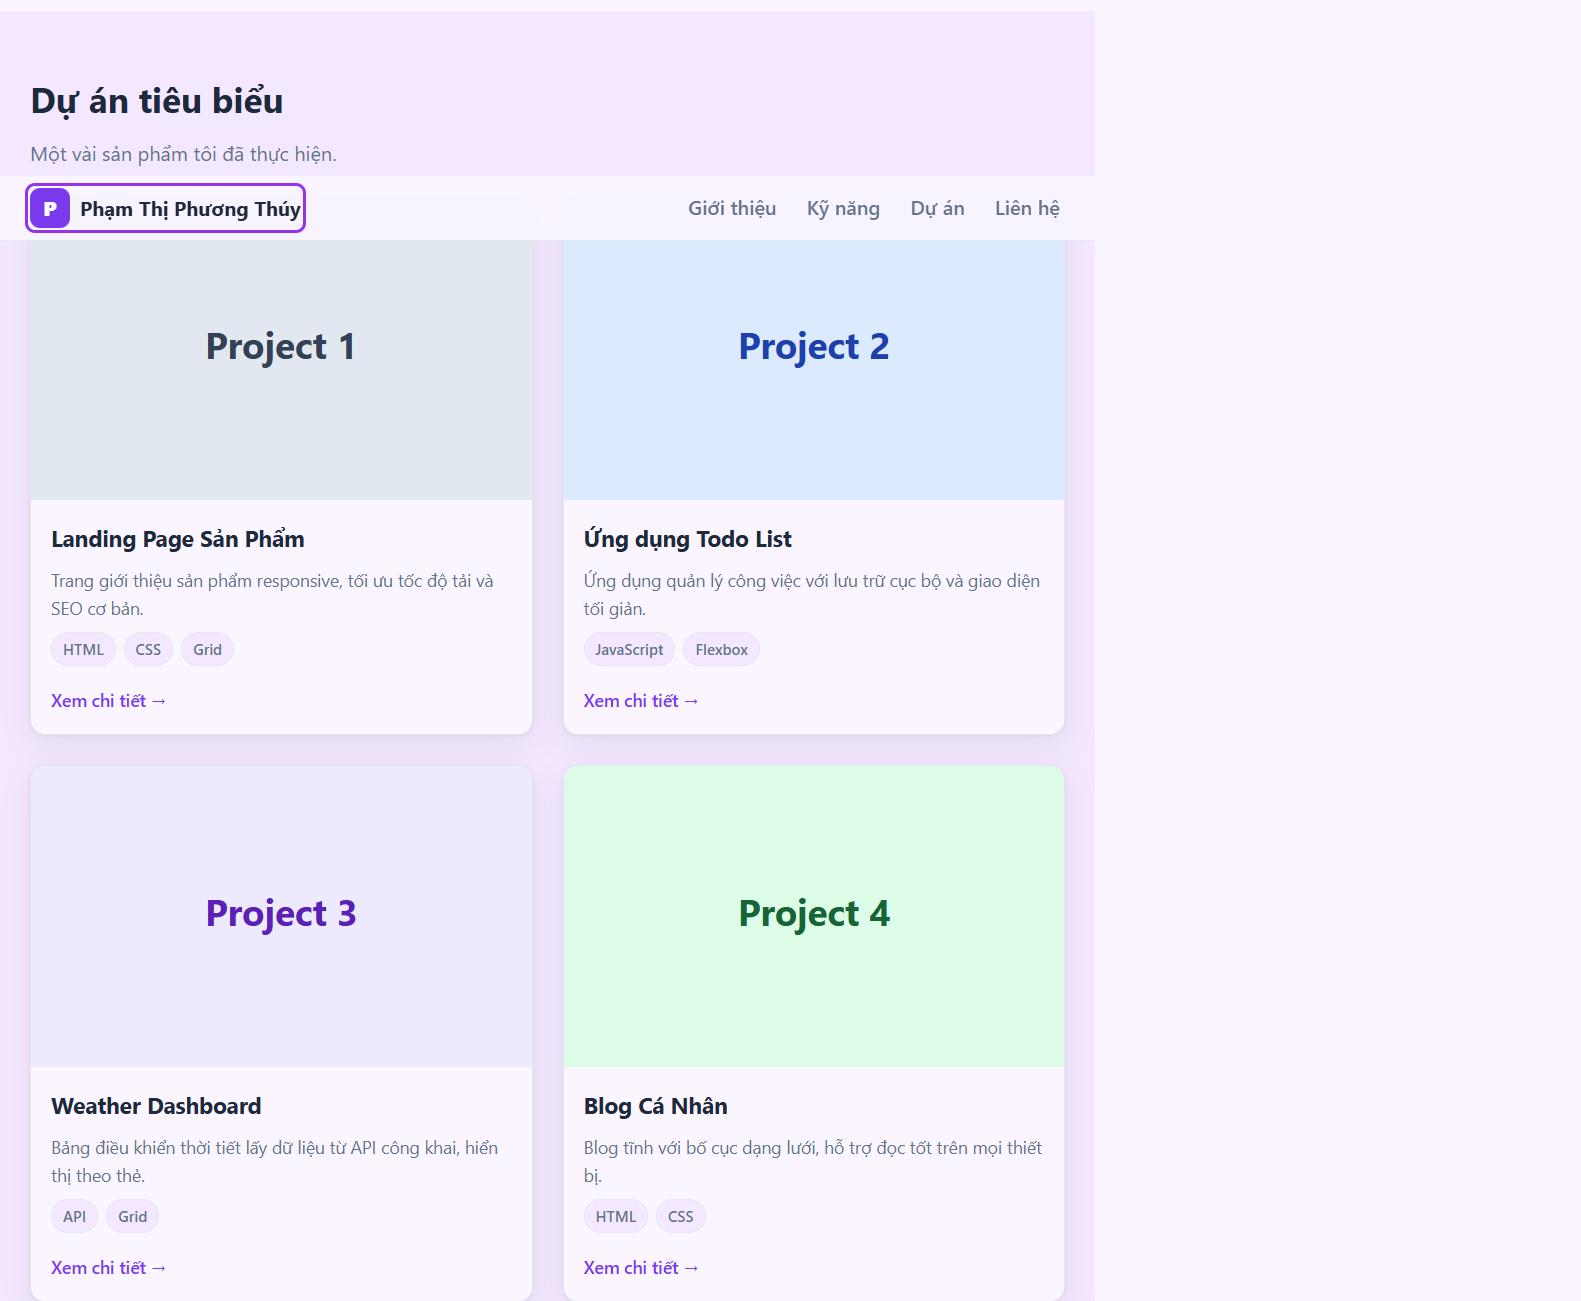
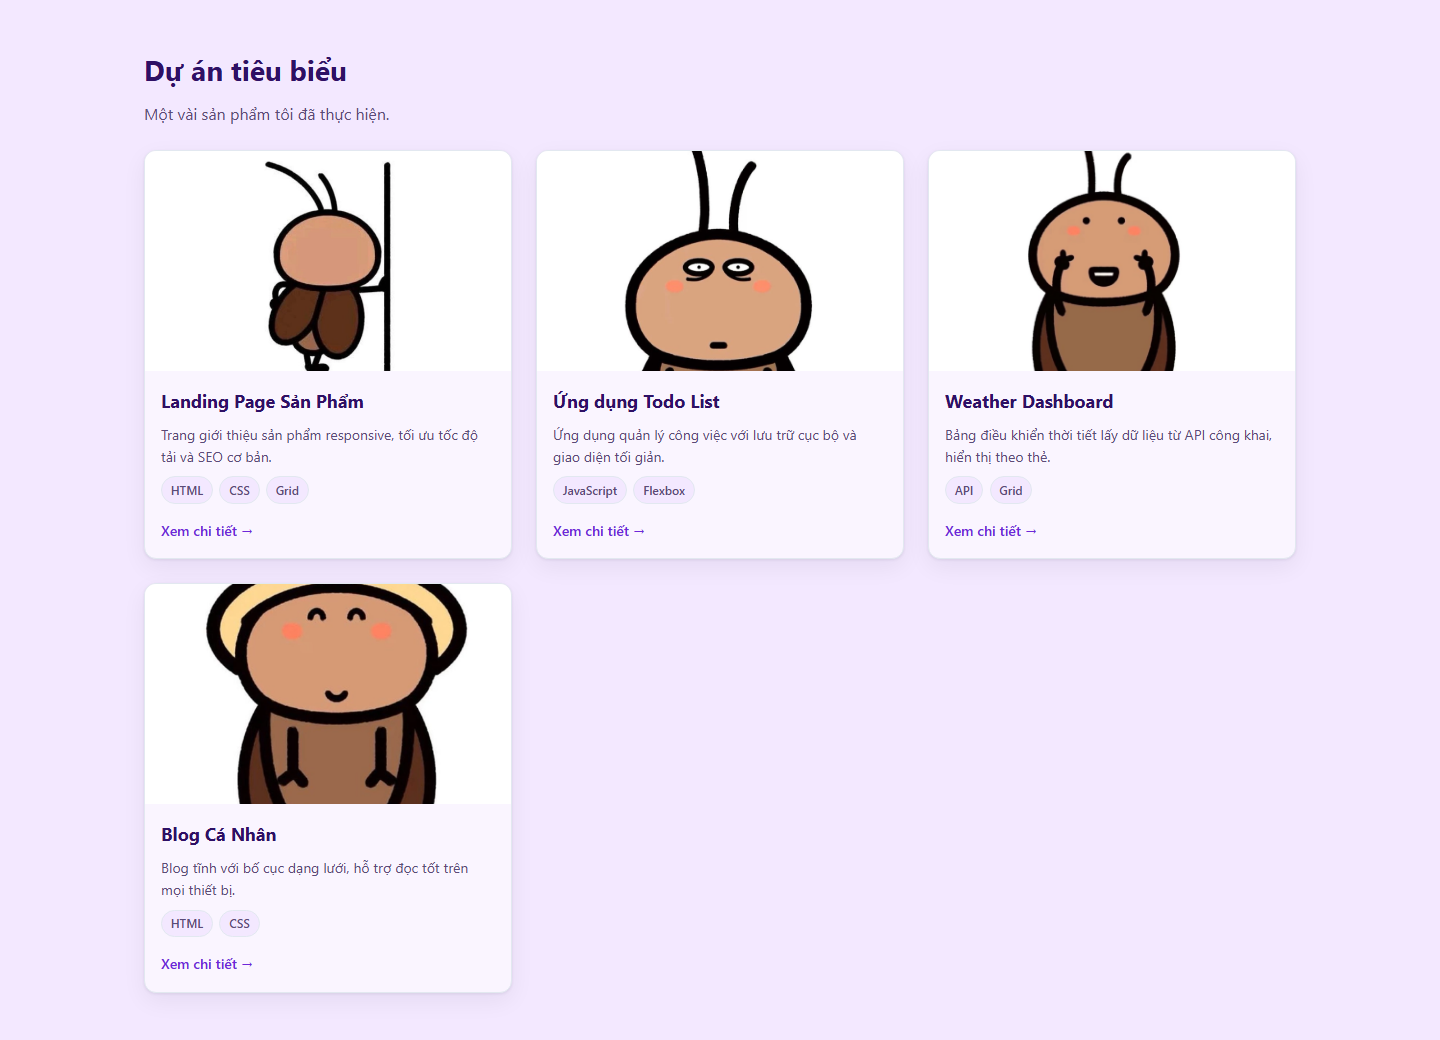
Update portfolio text colors and screenshots

diff --git a/index.html b/index.html
@@ -72,6 +72,22 @@
       </div>
     </section>
 
+      </main>
+
+      <!-- ========================================================== -->
+      <!-- FOOTER                                                      -->
+      <!-- ========================================================== -->
+      <footer class="site-footer">
+        <div class="container footer-inner">
+          <p>© 2026 Phạm Thị Phương Thúy. Thiết kế &amp; xây dựng bằng HTML5 + CSS3.</p>
+          <a href="#top" class="to-top">↑ Lên đầu trang</a>
+        </div>
+      </footer>
+
+    </body>
+
+    </html>
+
     <!-- ----- SECTION: Kỹ năng ----- -->
     <section id="skills" class="section">
       <div class="container">
@@ -171,32 +187,81 @@
         </div><!-- /.project-grid -->
       </div>
     </section>
+<!-- ----- SECTION: Liên hệ ----- -->
+<section id="contact" class="section">
+  <div class="container contact-inner">
+    <h2 class="section-title">Liên hệ</h2>
+    <p class="section-sub">
+      Hãy để lại thông tin nếu bạn muốn liên hệ với tôi.
+    </p>
 
-    <!-- ----- SECTION: Liên hệ ----- -->
-    <section id="contact" class="section">
-      <div class="container contact-inner">
-        <h2 class="section-title">Liên hệ</h2>
-        <p class="section-sub">Mở cho các cơ hội thực tập &amp; việc làm Frontend.</p>
+    <form class="contact-form" action="#" method="post">
 
-        <ul class="contact-list">
-          <li><span class="contact-label">Email</span> <a href="mailto:phuongthuy7112008@gmail.com">phuongthuy7112008@gmail.com</a></li>
-          <li><span class="contact-label">GitHub</span> <a href="https://github.com/pthuyy711/CV" target="_blank" rel="noopener noreferrer">github.com/pthuyy711/CV</a></li>
-        </ul>
+      <div class="form-group">
+        <label for="fullname">Họ và tên</label>
+        <input
+          type="text"
+          id="fullname"
+          name="fullname"
+          placeholder="Nhập họ và tên của bạn"
+          required
+        />
       </div>
-    </section>
 
-  </main>
+      <div class="form-group">
+        <label for="email">Email</label>
+        <input
+          type="email"
+          id="email"
+          name="email"
+          placeholder="example@gmail.com"
+          required
+        />
+      </div>
 
-  <!-- ========================================================== -->
-  <!-- FOOTER                                                      -->
-  <!-- ========================================================== -->
-  <footer class="site-footer">
-    <div class="container footer-inner">
-      <p>© 2026 Phạm Thị Phương Thúy. Thiết kế &amp; xây dựng bằng HTML5 + CSS3.</p>
-      <a href="#top" class="to-top">↑ Lên đầu trang</a>
-    </div>
-  </footer>
+      <div class="form-group">
+        <label for="phone">Số điện thoại</label>
+        <input
+          type="tel"
+          id="phone"
+          name="phone"
+          placeholder="Nhập số điện thoại"
+          required
+        />
+      </div>
 
-</body>
+      <div class="form-group">
+        <label for="message">Nội dung liên hệ</label>
+        <textarea
+          id="message"
+          name="message"
+          rows="5"
+          placeholder="Nhập nội dung bạn muốn gửi..."
+          required
+        ></textarea>
+      </div>
 
-</html>
+      <button type="submit" class="btn btn-primary">
+        Gửi liên hệ
+      </button>
+
+    </form>
+
+    <ul class="contact-list">
+      <li>
+        <span class="contact-label">Email:</span>
+        <a href="mailto:phuongthuy7112008@gmail.com">
+          phuongthuy7112008@gmail.com
+        </a>
+      </li>
+      <li>
+        <span class="contact-label">GitHub:</span>
+        <a href="https://github.com/pthuyy711/CV"
+           target="_blank"
+           rel="noopener noreferrer">
+          github.com/pthuyy711/CV
+        </a>
+      </li>
+    </ul>
+  </div>
+</section>

diff --git a/assets/css/styles.css b/assets/css/styles.css
@@ -12,11 +12,11 @@
    ========================================================================== */
 :root {
   /* --- Bảng màu --- */
-  --color-primary: #7c3aed;      /* tím thương hiệu */
-  --color-primary-dark: #6d28d9;
-  --color-accent: #9333ea;
-  --color-text: #1e293b;         /* chữ chính */
-  --color-text-soft: #64748b;    /* chữ phụ */
+  --color-primary: #6d28d9;      /* tím thương hiệu */
+  --color-primary-dark: #5b21b6;
+  --color-accent: #7e22ce;
+  --color-text: #2e1065;         /* chữ chính */
+  --color-text-soft: #5b4b78;    /* chữ phụ */
   --color-bg: #faf5ff;           /* nền tím nhạt */
   --color-surface: #f3e8ff;      /* nền vùng nhấn */
   --color-border: #e2e8f0;       /* viền */
@@ -452,4 +452,51 @@ ul {
     transition: none !important;
     scroll-behavior: auto !important;
   }
+}
+/* FORM LIÊN HỆ */
+.contact-form {
+  max-width: 600px;
+  margin: 30px auto;
+  display: flex;
+  flex-direction: column;
+  gap: 18px;
+}
+
+.form-group {
+  display: flex;
+  flex-direction: column;
+  gap: 8px;
+}
+
+.form-group label {
+  font-weight: 600;
+  color: var(--color-text);
+}
+
+.form-group input,
+.form-group textarea {
+  width: 100%;
+  padding: 12px 15px;
+  border: 1px solid #ccc;
+  border-radius: 8px;
+  font-size: 15px;
+  font-family: inherit;
+  box-sizing: border-box;
+}
+
+.form-group input:focus,
+.form-group textarea:focus {
+  outline: none;
+  border-color: #8064d9;
+  box-shadow: 0 0 5px rgba(128, 100, 217, 0.3);
+}
+
+.form-group textarea {
+  resize: vertical;
+}
+
+.contact-form button {
+  border: none;
+  cursor: pointer;
+  width: fit-content;
 }

diff --git a/docs/EVIDENCE_INDEX.md b/docs/EVIDENCE_INDEX.md
@@ -4,10 +4,10 @@
 
 | Tệp | Nội dung | Cách tái lập |
 |---|---|---|
-| [top-view.png](./screenshots/top-view.png) | Đầu trang: nhận diện, hero, kỹ năng và đầu lưới dự án (PNG 1440 × 900) | Mở bản cục bộ ở cửa sổ desktop, cuộn lên đầu |
-| [projects.png](./screenshots/projects.png) | Khu vực bốn thẻ dự án (PNG 1581 × 1301) | Chụp riêng section `#projects` |
-| [contact.png](./screenshots/contact.png) | Email và GitHub hiện hành (PNG 1076 × 324) | Chụp riêng section `#contact` |
-| [mobile.png](./screenshots/mobile.png) | Điều hướng và hero ở viewport hẹp (PNG 390 × 844) | Chụp Edge headless với cửa sổ 390 × 844 |
+| [top-view.png](./screenshots/top-view.png) | Đầu trang: nhận diện, hero, kỹ năng và đầu lưới dự án (PNG 1440 × 900) | Chụp Edge headless tại viewport 1440 × 900 |
+| [projects.png](./screenshots/projects.png) | Khu vực bốn thẻ dự án (PNG 1440 × 1040) | Cắt section `#projects` từ ảnh Edge headless |
+| [contact.png](./screenshots/contact.png) | Email, GitHub và biểu mẫu liên hệ (PNG 1440 × 840) | Cắt section `#contact` từ ảnh Edge headless |
+| [mobile.png](./screenshots/mobile.png) | Điều hướng và hero ở viewport hẹp (PNG 390 × 844) | Chụp Edge headless tại viewport 390 × 844 |
 
 Ảnh là ảnh chụp trình duyệt của bản cục bộ; không chứng minh trạng thái GitHub Pages. Kích thước bảng là kích thước tệp PNG, không thay thế số đo CSS viewport trong báo cáo kiểm thử. Chụp lại nếu HTML/CSS thay đổi đáng kể hoặc nếu ảnh không còn đồng bộ với phiên bản đang kiểm thử.
 
